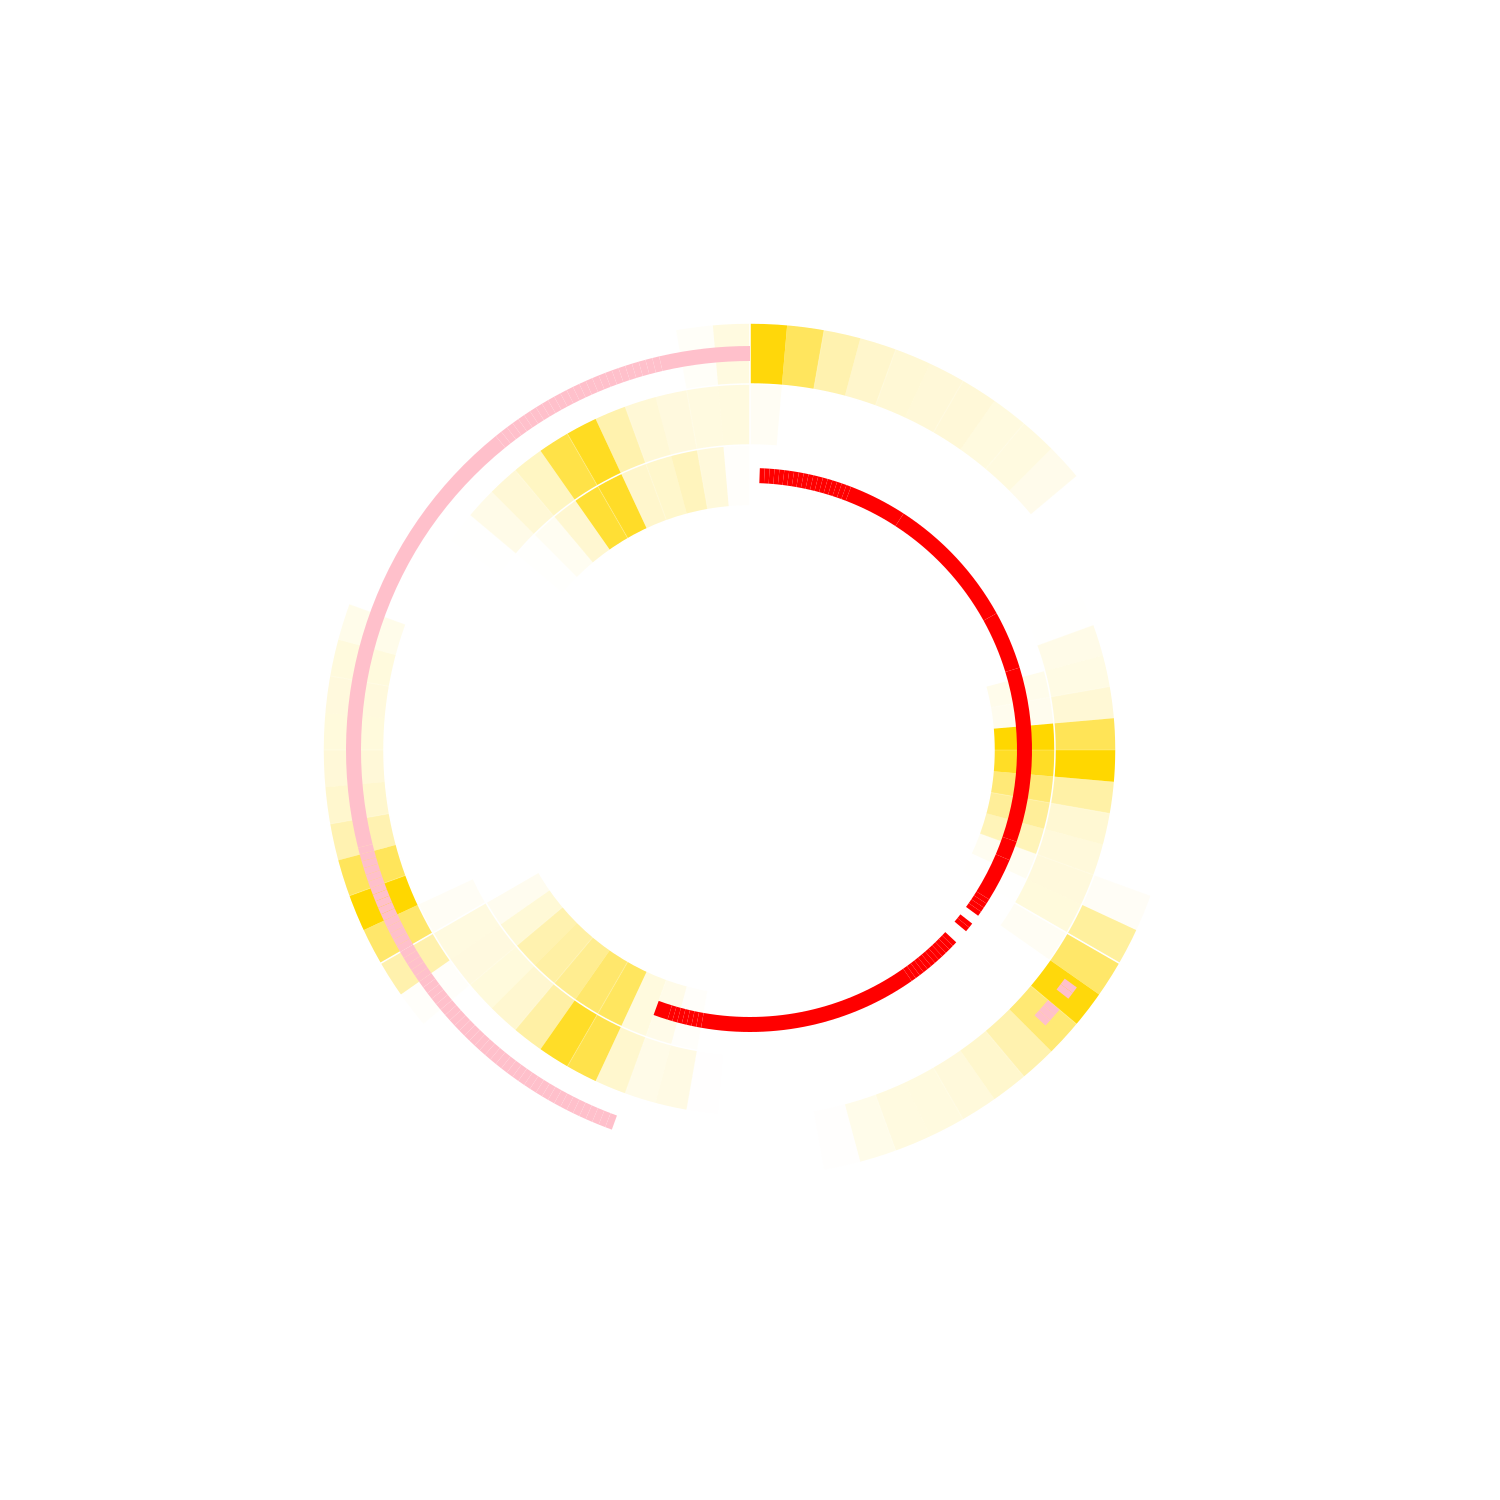
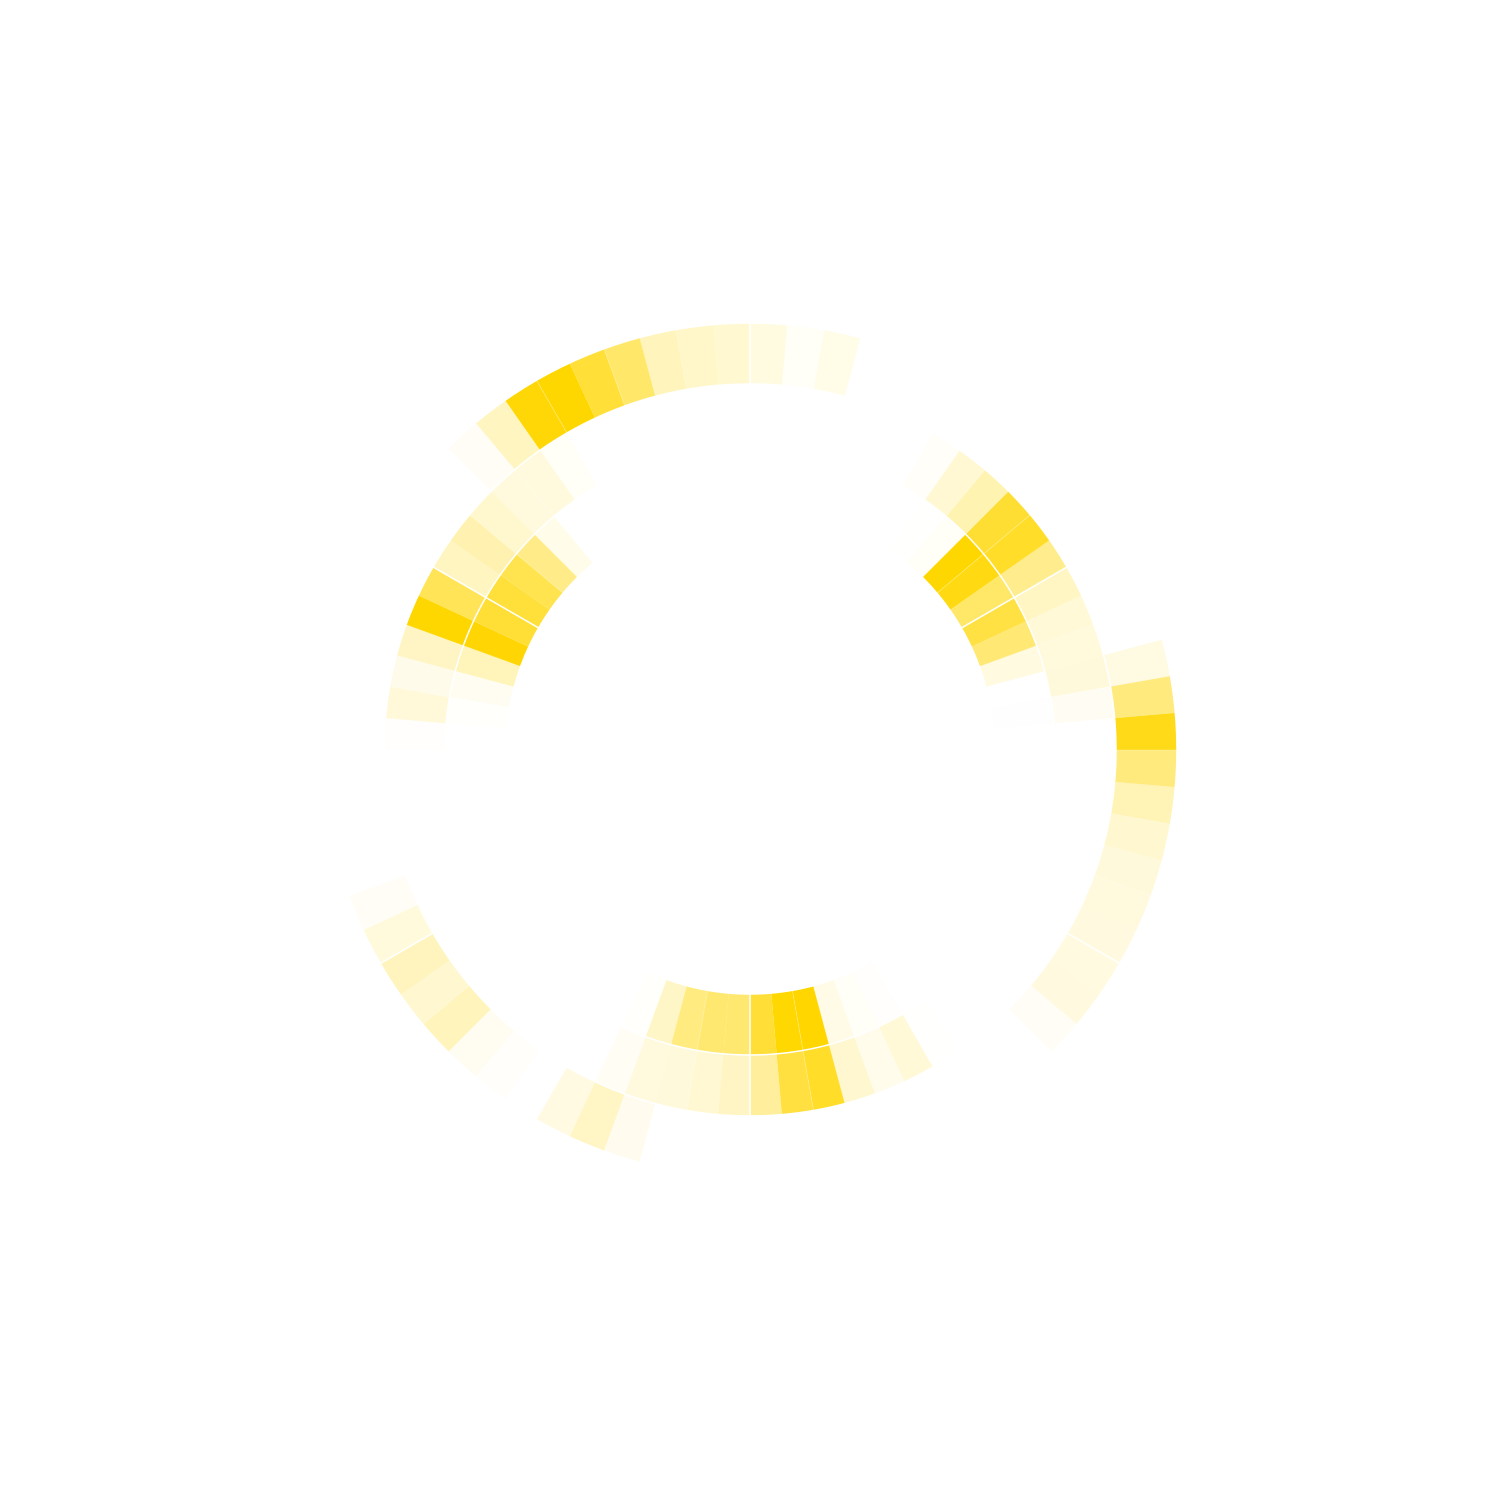
turn off au arc

Changed region(s): [[0.2147, 0.2147, 0.7973, 0.7667], [0.6133, 0.6133, 0.644, 0.644]]

diff --git a/backend/visualization/viz.py b/backend/visualization/viz.py
@@ -22,7 +22,7 @@ radius = 61*10
 start_ring = 1
 
 #Run settings
-local = 1
+local = 0
 debug_mode = 0
 
 path = "/home/pi/solar-protocol/backend"
@@ -152,6 +152,8 @@ def draw_server_arc(server_no, start, stop, c):
     # print("stop", stop)
     # print("start", start)
     # print("c", c)
+    if c == "Pink":
+        return False
 
     if type(c)==type(" "):
         #print("Name!!", c)
